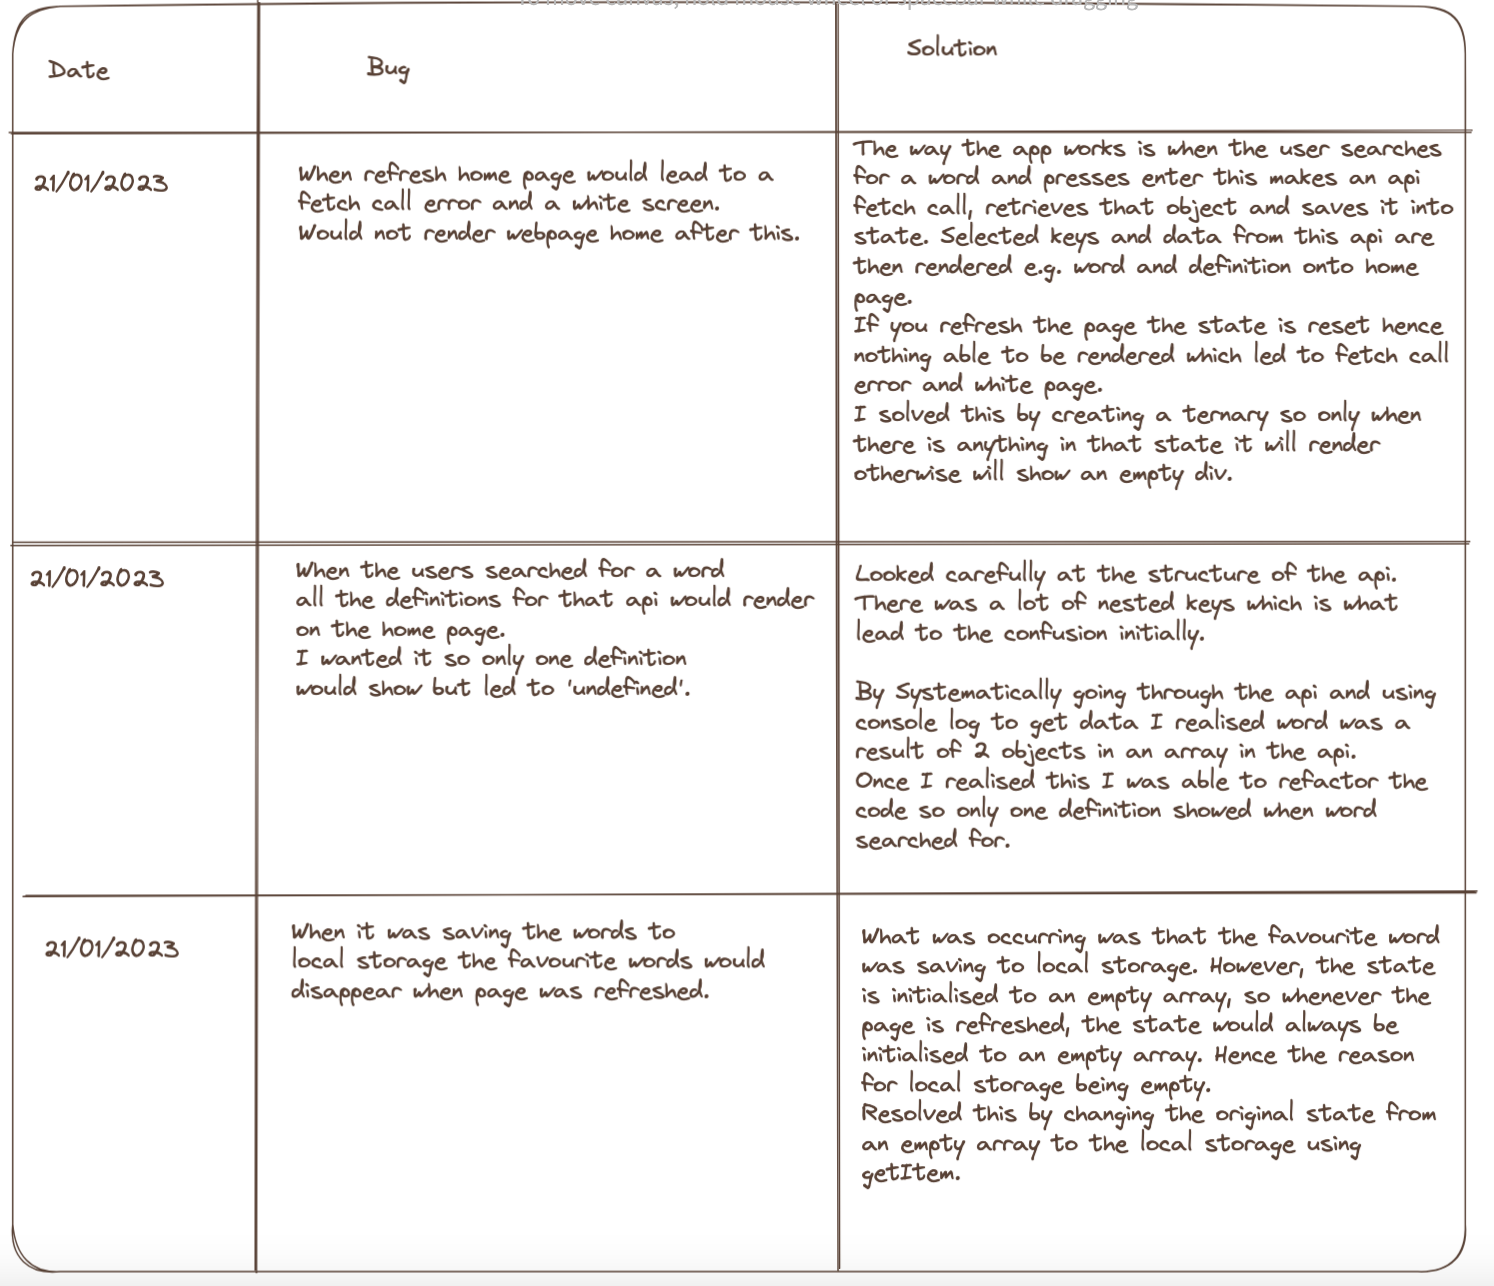
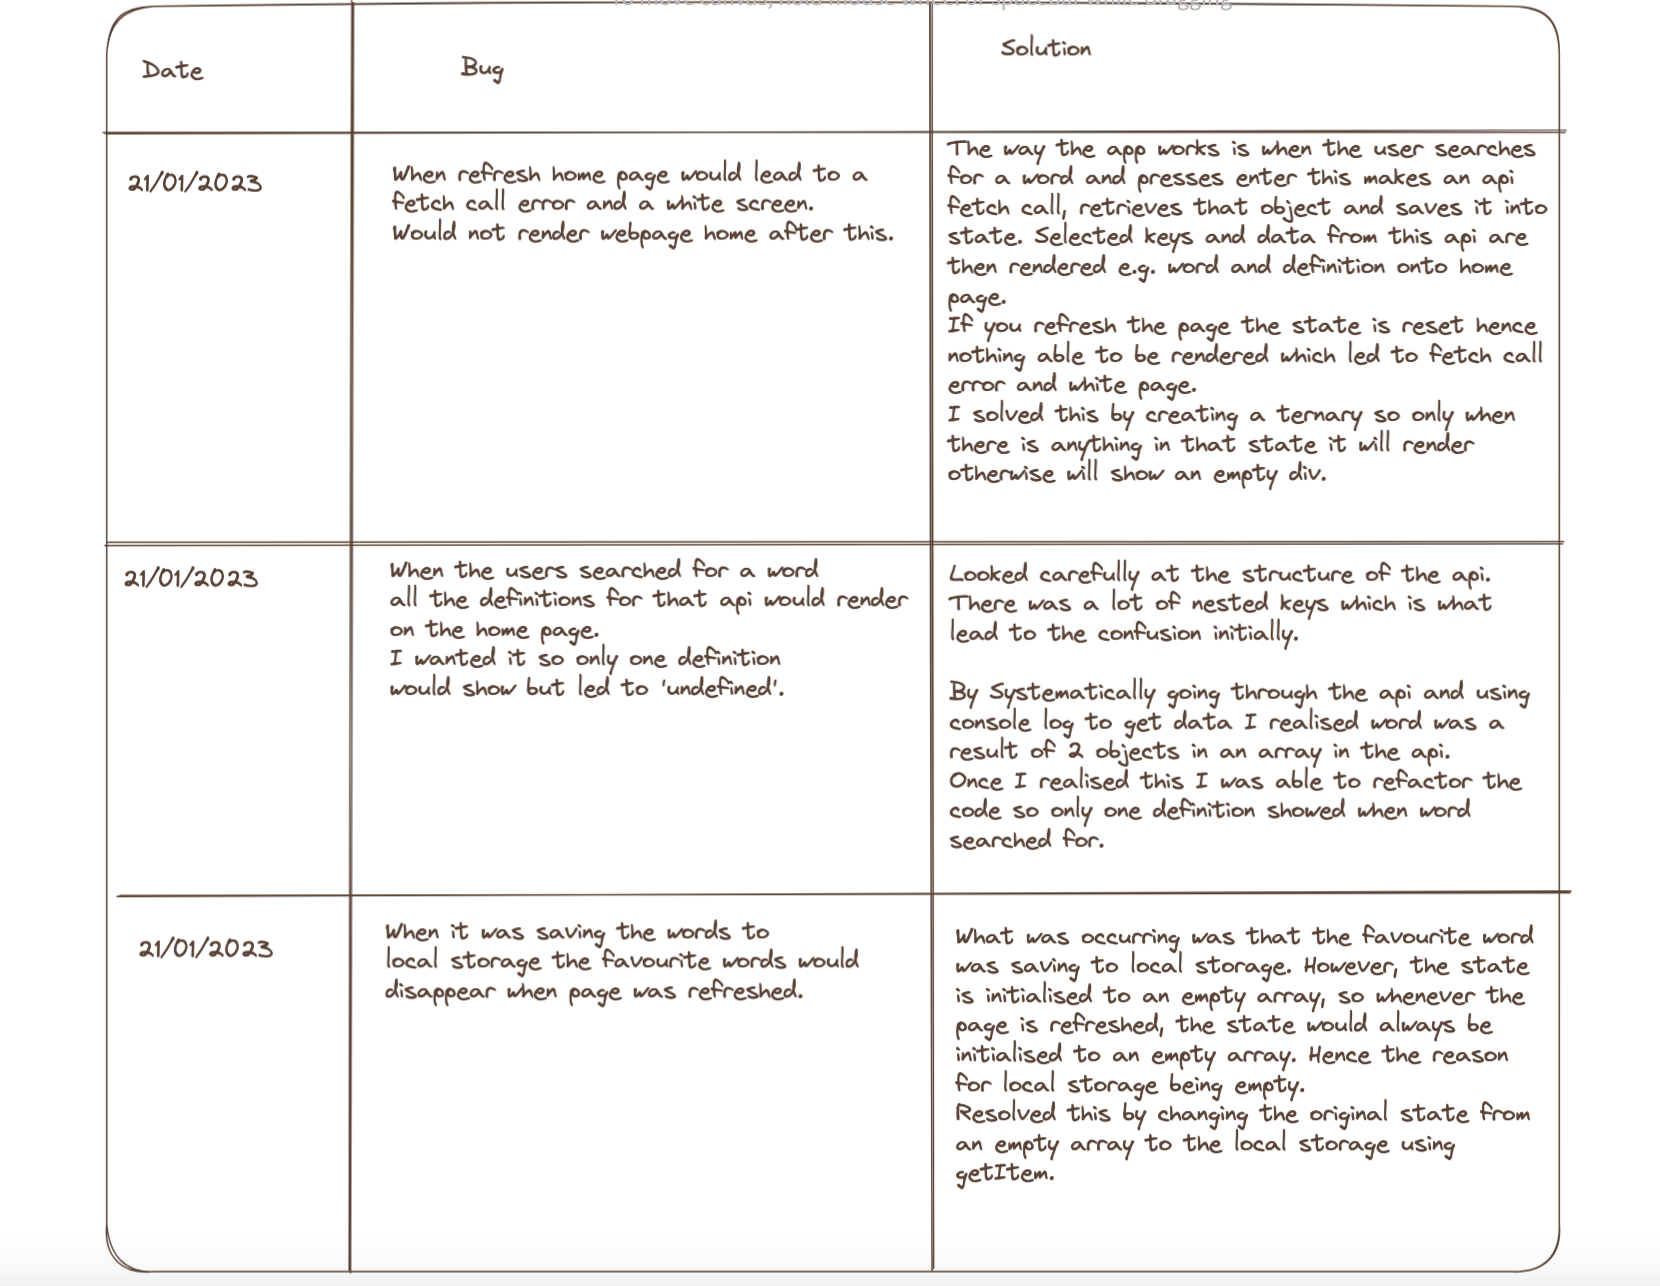
readme altered image file width

diff --git a/README.md b/README.md
@@ -39,7 +39,7 @@ Then did a rough component hierarchy diagram.
 
 During the challenge I came across certain bugs and errors. Through reflection and critical thinking I was able to solve these. I kept a log of these in a bug table highlighted below. 
 
-<img src="./src/Images/Bug-table.png" width="400" height="300">
+<img src="./src/Images/Bug-table.png" width="500" height="300">
 
 ### Chose colour palette
 
